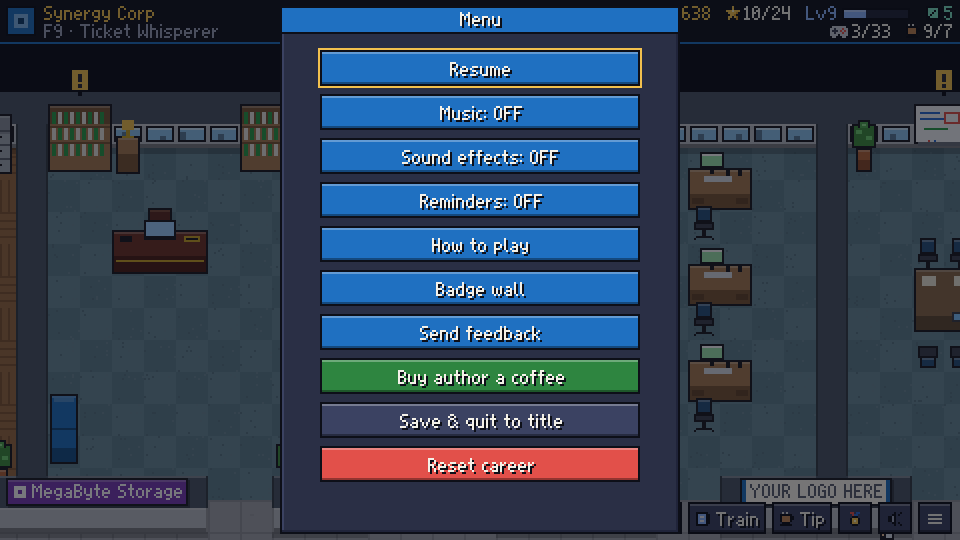
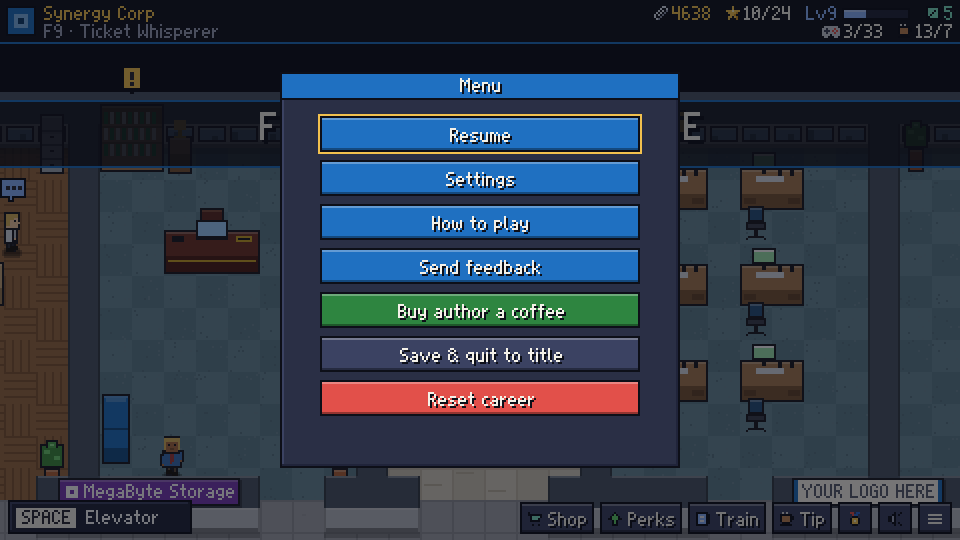
Menu: Settings submenu for music, sound and reminders; badge wall off the menu
Claude-Session: https://claude.ai/code/session_01JGTPKxS9GQXYGcwkHC4nFn

diff --git a/src/scenes/overlays.js b/src/scenes/overlays.js
@@ -587,12 +587,16 @@ export class FateDialog extends Modal {
 }
 
 // ------------------------------------------------------------------ pause menu
+/** Menu height for n stacked 18 px buttons (22 px apart) under the title. */
+const menuH = (n) => 44 + n * 22;
+/** A button adder for a vertical menu modal. */
+const stacker = (m) => (label, onClick, color) =>
+  m.buttons.add({ x: m.x + 20, y: m.y + 22 + m.buttons.items.length * 22, w: m.w - 40, h: 18, label, onClick, color });
+
 export class PauseMenu extends Modal {
-  /** onBadges: optional, adds a "Badge wall" entry. */
-  constructor(game, { onQuit, onBadges = null }) {
-    super(game, { w: 200, h: (remindersSupported() ? 242 : 220) + (onBadges ? 22 : 0), title: 'Menu' });
+  constructor(game, { onQuit }) {
+    super(game, { w: 200, h: menuH(7), title: 'Menu' });
     this.onQuit = onQuit;
-    this.onBadges = onBadges;
     this.confirmReset = false;
   }
   build() {
@@ -600,21 +604,10 @@ export class PauseMenu extends Modal {
     const b = this.buttons;
     const f = b.focus;
     b.clear();
-    const add = (label, onClick, color) => b.add({ x: this.x + 20, y: this.y + 22 + b.items.length * 22, w: this.w - 40, h: 18, label, onClick, color });
+    const add = stacker(this);
     add('Resume', () => this.close());
-    add(`Music: ${s.settings.music ? 'ON' : 'OFF'}`, () => {
-      s.settings.music = !s.settings.music;
-      this.game.audio.setMusic(s.settings.music);
-      this.game.markDirty();
-    });
-    add(`Sound effects: ${s.settings.sfx ? 'ON' : 'OFF'}`, () => {
-      s.settings.sfx = !s.settings.sfx;
-      this.game.audio.setSfx(s.settings.sfx);
-      this.game.markDirty();
-    });
-    if (remindersSupported()) add(`Reminders: ${remindersOn(s) ? 'ON' : 'OFF'}`, () => toggleReminders(this.game));
+    add('Settings', () => this.game.push(new SettingsMenu(this.game)));
     add('How to play', () => this.game.push(howToDialog(this.game)));
-    if (this.onBadges) add('Badge wall', this.onBadges);
     add('Send feedback', () => openFeedback(`floor ${s.floor}, level ${s.level}, ${s.player.name} @ ${s.corp.name}`));
     add('Buy author a coffee', openCoffee, C.goodBtn);
     add('Save & quit to title', () => {
@@ -629,6 +622,33 @@ export class PauseMenu extends Modal {
       this.game.wipeSave();
       this.onQuit();
     }, C.bad);
+    b.focus = Math.min(f, b.items.length - 1);
+  }
+}
+
+/** Menu > Settings: music, sound effects and (where the browser has notifications) reminders. */
+export class SettingsMenu extends Modal {
+  constructor(game) {
+    super(game, { w: 200, h: menuH(remindersSupported() ? 4 : 3), title: 'Settings' });
+  }
+  build() {
+    const s = this.game.state;
+    const b = this.buttons;
+    const f = b.focus;
+    b.clear();
+    const add = stacker(this);
+    add(`Music: ${s.settings.music ? 'ON' : 'OFF'}`, () => {
+      s.settings.music = !s.settings.music;
+      this.game.audio.setMusic(s.settings.music);
+      this.game.markDirty();
+    });
+    add(`Sound effects: ${s.settings.sfx ? 'ON' : 'OFF'}`, () => {
+      s.settings.sfx = !s.settings.sfx;
+      this.game.audio.setSfx(s.settings.sfx);
+      this.game.markDirty();
+    });
+    if (remindersSupported()) add(`Reminders: ${remindersOn(s) ? 'ON' : 'OFF'}`, () => toggleReminders(this.game));
+    add('Back', () => this.close(), C.panelLight);
     b.focus = Math.min(f, b.items.length - 1);
   }
 }

diff --git a/tests/menu.test.js b/tests/menu.test.js
@@ -1,0 +1,48 @@
+import { test, expect } from 'bun:test';
+import { installMockDocument } from './mock-canvas.js';
+import { newGame } from '../src/core/state.js';
+installMockDocument();
+const { createInput } = await import('../src/engine/input.js');
+const { PauseMenu } = await import('../src/scenes/overlays.js');
+
+function fakeGame() {
+  const stack = [];
+  return {
+    input: createInput(),
+    state: newGame({}, 0),
+    audio: { setMusic() {}, setSfx() {} },
+    sfx: () => {},
+    markDirty: () => {},
+    push: (s) => stack.push(s),
+    pop: () => stack.pop(),
+    get top() {
+      return stack[stack.length - 1];
+    },
+    stack,
+  };
+}
+const labels = (m) => m.buttons.items.map((b) => b.label);
+
+test('the menu keeps audio switches in a Settings submenu and has no badge wall', () => {
+  const game = fakeGame();
+  const menu = new PauseMenu(game, { onQuit: () => {} });
+  game.push(menu);
+  menu.build();
+  const l = labels(menu);
+  expect(l).toContain('Settings');
+  expect(l.some((x) => /Music|Sound effects|Reminders|Badge wall/.test(x))).toBe(false);
+  for (const b of menu.buttons.items) expect(b.y + b.h).toBeLessThanOrEqual(menu.y + menu.h - 4);
+
+  menu.buttons.items.find((b) => b.label === 'Settings').onClick();
+  const settings = game.top;
+  expect(settings).not.toBe(menu);
+  settings.build();
+  expect(labels(settings)).toEqual(expect.arrayContaining(['Music: ON', 'Sound effects: ON', 'Back']));
+  settings.buttons.items.find((b) => b.label.startsWith('Music')).onClick();
+  expect(game.state.settings.music).toBe(false);
+  settings.build();
+  expect(labels(settings)).toContain('Music: OFF');
+  for (const b of settings.buttons.items) expect(b.y + b.h).toBeLessThanOrEqual(settings.y + settings.h - 4);
+  settings.buttons.items.find((b) => b.label === 'Back').onClick();
+  expect(game.top).toBe(menu);
+});

diff --git a/public/how-to-play/index.html b/public/how-to-play/index.html
@@ -558,7 +558,7 @@
           <figcaption>The kitchen coffee machine: 3 cups every 15 minutes.</figcaption>
         </figure>
         <p class="note">
-          Ran dry? You can switch on browser <b>Reminders</b> in the menu: the game then tells you when your coffee is full
+          Ran dry? You can switch on browser <b>Reminders</b> under Menu &gt; Settings: the game then tells you when your coffee is full
           again (only while the tab is open in the background, at most 3 a day and never at night).
         </p>
 
@@ -808,7 +808,7 @@
             None of it costs coffee or earns anything; it is just there to be found. A station with a task that is also a
             fridge or a plant has a <b>Peek</b> button on its task card.
           </li>
-          <li><b>The menu</b> (<kbd>Esc</kbd>) has music and sound switches, reminders, the badge wall, feedback and "Save &amp; quit to title".</li>
+          <li><b>The menu</b> (<kbd>Esc</kbd>) has Settings (music, sound effects and reminders), the quick guide, feedback and "Save &amp; quit to title".</li>
         </ul>
         <div class="pair">
           <figure>

diff --git a/src/scenes/floorScene.js b/src/scenes/floorScene.js
@@ -152,7 +152,6 @@ export class FloorScene {
     const game = this.game;
     game.push(
       new PauseMenu(game, {
-        onBadges: () => game.push(new BadgeWall(game)),
         onQuit: async () => {
           const { TitleScene } = await import('./title.js');
           game.set(new TitleScene(game));

diff --git a/CLAUDE.md b/CLAUDE.md
@@ -122,14 +122,14 @@ refreshes the committed ZIP of the 8 disk images in `public/c64/`.
     Old per-floor `desks` saves merge on load. `DeskOverlay` (Shop / Collection tabs); `drawDeskDecor` in art.js.
   - **Badges** (`src/core/achievements.js`, `state.badges`): predicates over the state only; `game.checkBadges()` runs
     every 0.5 s while a FloorScene is on the stack (`inTower`, so never on the title screen). `stats.soSpent` = -1 for saves from before it was counted (never earns "Bootstrapped"). `BadgeWall`
-    opens from the HUD medal button and the menu.
+    opens from the HUD medal button and B (not from the menu).
 - **Office curiosities** (spec `docs/superpowers/specs/2026-10-12-office-curiosities-design.md`): non-gameplay furniture
   reacts to Space/click without focus brackets or prompt (gameplay targets always win; walk-through decor only answers a
   click within reach). `src/core/curios.js` decides (`curioOf`, `closeUpOf`, deterministic `fridgeContents`/`plantInfo`/
   `personnelFile`/`playerFile`), text lives in `src/data/curios.js` (quips per furniture type, ASCII), and
   `src/scenes/closeUp.js` draws the fridge, plant and HR filing-cabinet close-ups. Stations that are also a close-up get a
   Peek button on the TaskCard. Nothing is saved or paid. A new furniture type needs a `QUIPS` entry (`tests/curios.test.js`).
-- Reminders: opt-in browser notifications ("Reminders" in the ☰ menu, offered once via `offerReminders` when a task card
+- Reminders: opt-in browser notifications ("Reminders" in Menu > Settings (`SettingsMenu`), offered once via `offerReminders` when a task card
   is closed for lack of coffee). `src/core/reminders.js` (pure, reusable by a native app) lists what finishes while away;
   `src/engine/reminders.js` schedules the soonest one when the tab is hidden and fires only if the tab is still hidden.
   Kept sparse on purpose: ≥5 min away, max 3/day (`localStorage['synergytower.reminders']`), quiet 22:00–08:00, each kind
